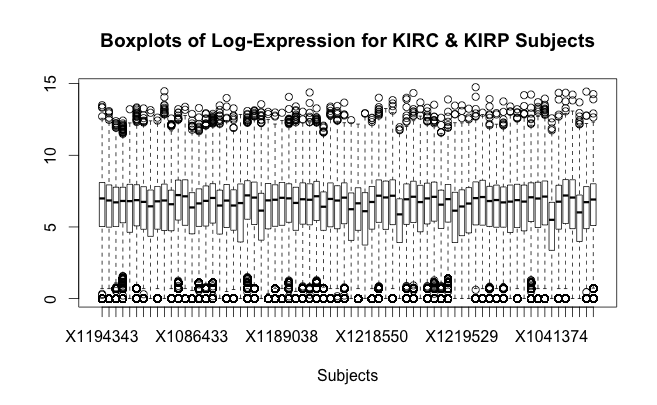
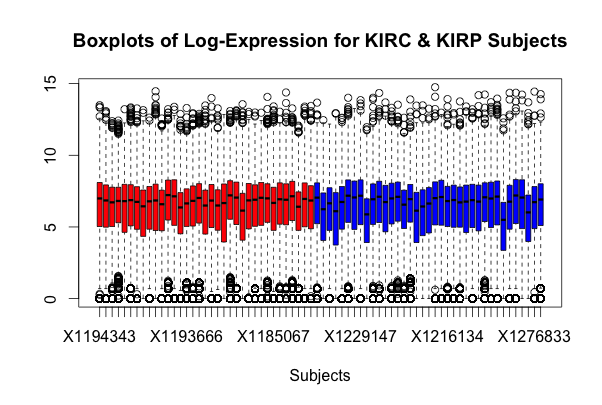
added captions

Changed region(s): [[0.0598, 0.1778, 0.9568, 0.8593], [0.1196, 0.0593, 0.9568, 0.1481], [0.4784, 0.9185, 0.598, 0.9481]]

diff --git a/paper/kidney.tex b/paper/kidney.tex
@@ -105,56 +105,61 @@ subjects in the test set.
 \begin{figure}[H]
   \centering
     \includegraphics[width=\textwidth]{../../fig/filter_histograms.png}
-\caption{Histogram }
+\caption{Histogram } The histogram on the left shows the log-counts looking reasonable normal, but with a large spike at 0.
+				On the right, we see the histogram of the log-counts after filtering and note that the spike at 0 is much smaller.
+				This histogram show
+   \label{fig:histogram}
+\end{figure}
+
+
+\begin{figure}[H]
+  \centering
+    \includegraphics[width=\textwidth]{../../fig/postfilter_boxplot.png}
+\caption{Boxplot } This figure shows box plots of the distributions of log-counts for all 72 subjects in our dataset (after filtering). Red 	box plots correspond to subjects in the KIRC group, while blue box plots correspond to those in the KIRP group. No notable 	differences between KIRC and KIRP subjects are shown in these box plots. 
+   \label{fig:boxplot}
+\end{figure}
+
+
+\begin{figure}[H]
+  \centering
+    \includegraphics[width=.8\textwidth]{../../fig/postnorm_test_boxplot.png}
+\caption{Test Set Boxplots after normalization } After applying the training set normalization onto the test set, here is what the
+		distributions of the log-counts for the test subjects look like. Notice, all of the upper quantiles are aligned as expected 		with upper quantile normalization.
+   \label{fig:boxplotpost}
+\end{figure}
+
+
+\begin{figure}[H]
+  \centering
+    \includegraphics[width=.8\textwidth]{../../fig/postnorm_histogram.png}
+\caption{Histogram after normalization  } This histogram shows the distribution of the log-counts in the training set, after applying upper quantile normalization. It looks very similar to the original histogram of the log-counts after filtering out low count genes.
    \label{fig:histogram}
 \end{figure}
 
 \begin{figure}[H]
   \centering
     \includegraphics[width=\textwidth]{../../fig/mdplots_postnorm.png}
-\caption{MD plots }
+\caption{MD plots } Above are Mean Difference Plots after normalization, to compare the magnitude of the differences in expression
+				between subjects with the same type of cancer cell and between subjects with different types.
+				Note that, for same cell type subjects, the differences displayed in the plots look very similar to those 
+				seen in the plots for different cell type subjects. This is possibly due to some technical effects (such as Batch 				effect) that we were unable to investigate.
    \label{fig:mdplot}
 \end{figure}
 
 \begin{figure}[H]
   \centering
-    \includegraphics[width=\textwidth]{../../fig/postfilter_boxplot.png}
-\caption{Boxplot }
-   \label{fig:boxplot}
+    \includegraphics[width=.8\textwidth]{../../fig/pcplot_final.png}
+\caption{PCA Plot} Principal Component 1 is on the x-axis and Principal Component 2 is on the y-axis for both scatterplots.
+			    PCA is performed on the training set (with the 40 p-value selected genes) and applied to the test set. In both plots, we see a clear divide between 	KIRC and KIRP subjects along the first principal component. 
+   \label{fig:pca}
 \end{figure}
 
-\begin{figure}[H]
-  \centering
-    \includegraphics[width=.8\textwidth]{../../fig/postnorm_test_boxplot.png}
-\caption{Boxplots after normalization }
-   \label{fig:boxplotpost}
-\end{figure}
-
-\begin{figure}[H]
-  \centering
-    \includegraphics[width=.8\textwidth]{../../fig/postnorm_histogram.png}
-\caption{Histogram after normalization  }
-   \label{fig:histogram}
-\end{figure}
-
-\begin{figure}[H]
-  \centering
-    \includegraphics[width=.8\textwidth]{../../fig/pcplot_train.png}
-\caption{PCA train data}
-   \label{fig:pcatrain}
-\end{figure}
-
-\begin{figure}[H]
-  \centering
-    \includegraphics[width=.8\textwidth]{../../fig/pcplot_test.png}
-\caption{PCA test data}
-   \label{fig:pcatest}
-\end{figure}
 
 \begin{figure}[H]
   \centering
     \includegraphics[width=.8\textwidth]{../../fig/testset_acc.png}
-\caption{Performance }
+\caption{Performance }This bar plot compares the percentages of correctly classified subjects, that our classification methods achieve. We see that Support Vector Machines (with the p-value subset of genes) performs the best with 96\% accuracy. Linear
+Discriminant Analysis (on the variance subset of genes) performs the worst at 68\%. 
    \label{fig:performance}
 \end{figure}
 
